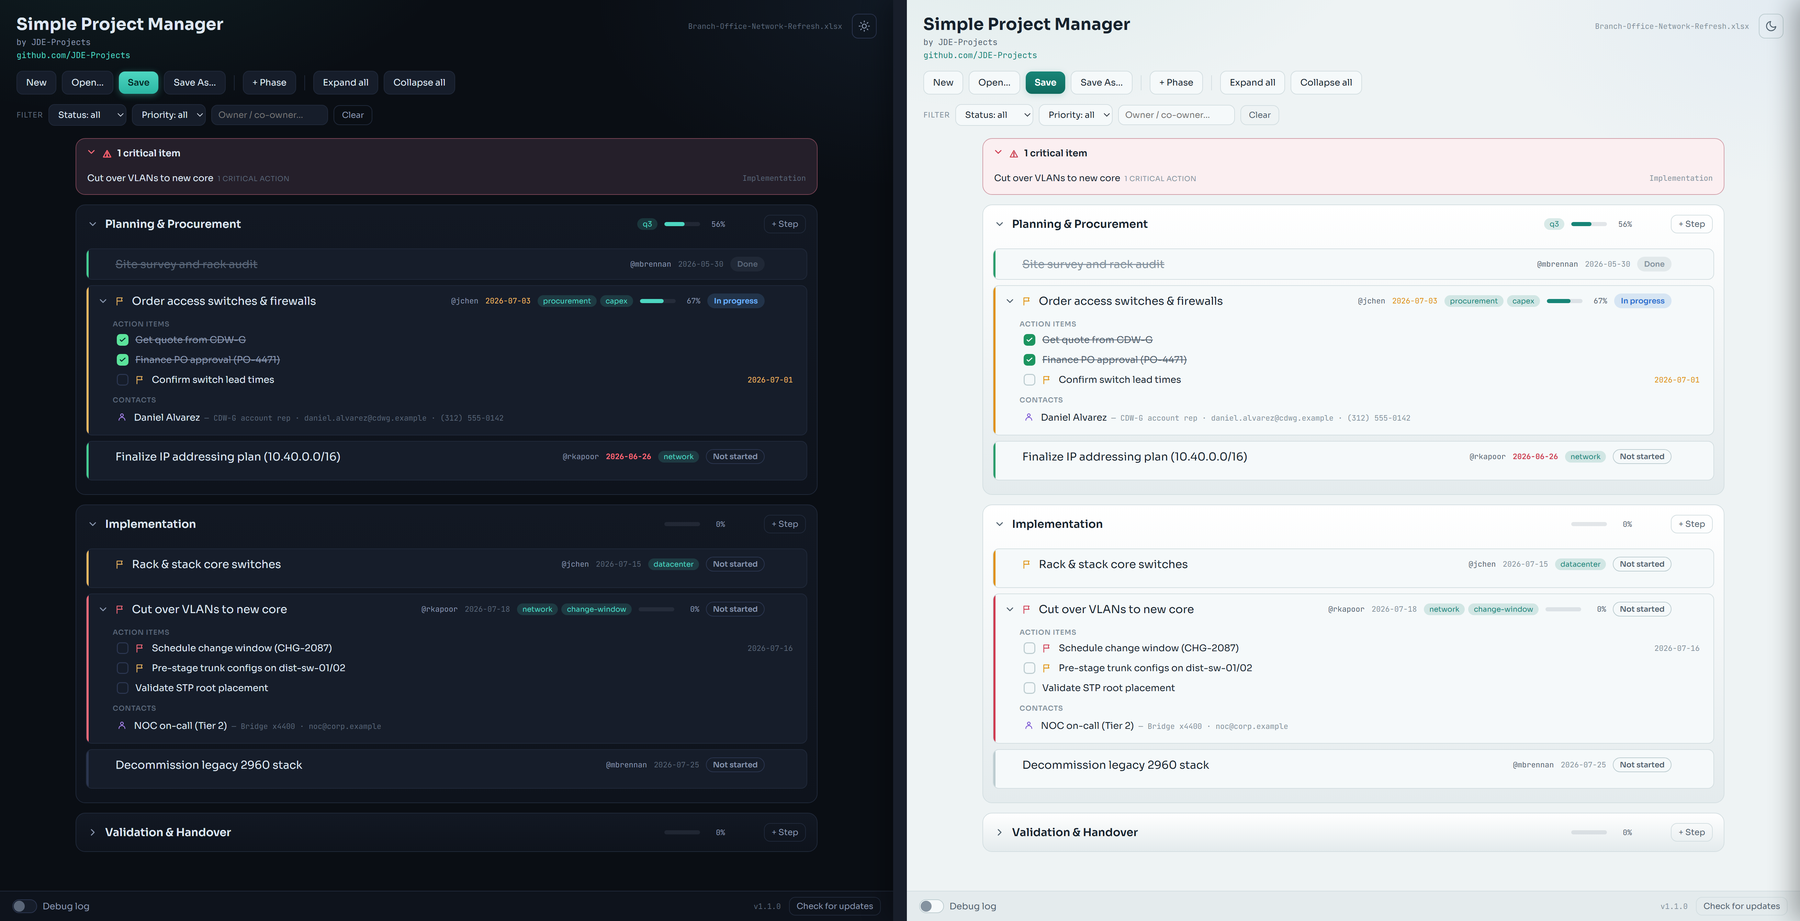
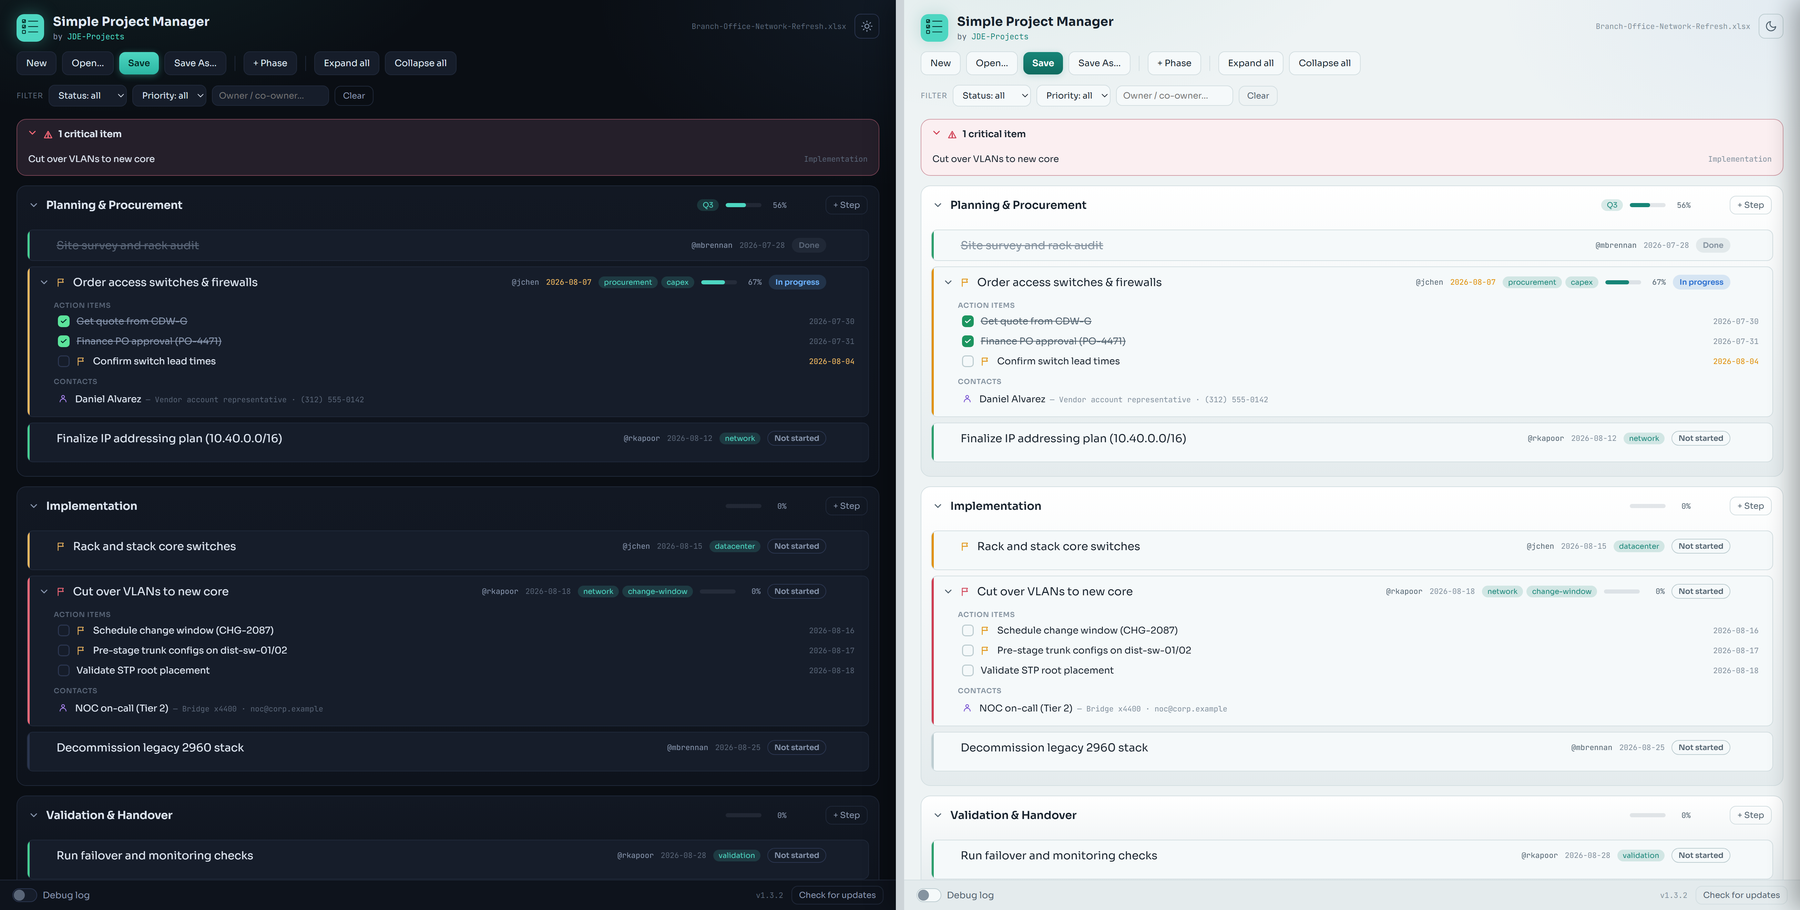
Bump version to v1.3.2

diff --git a/simple_project_manager-UI.html b/simple_project_manager-UI.html
@@ -473,7 +473,7 @@ button.btn.danger:hover { border-color:var(--red); transform:translateY(-1px); }
       <span class="update-msg" id="update-msg"></span>
     </div>
     <div class="right">
-      <span class="ver-label" id="ver-bar">v1.1.0</span>
+      <span class="ver-label" id="ver-bar">v1.3.2</span>
       <button class="btn-update" onclick="manualUpdate()">Check for updates</button>
     </div>
   </div>
@@ -512,7 +512,7 @@ button.btn.danger:hover { border-color:var(--red); transform:translateY(-1px); }
   <div class="toast" id="toast"></div>
 
 <script>
-let STATE = { items: [], statuses: [], priorities: [], theme: "dark", version: "1.1.0", filename: "", dirty: false };
+let STATE = { items: [], statuses: [], priorities: [], theme: "dark", version: "1.3.2", filename: "", dirty: false };
 const collapsed = new Set();   // ids of collapsed phases/steps
 let selectedId = null;         // id of the row whose edit panel is open
 let recoveryTimer = null;
@@ -1211,11 +1211,11 @@ async function boot(){
     STATE = await pywebview.api.get_state();
   } else {
     // browser preview fallback so layout can be eyeballed without the backend
-    STATE = { items: [], statuses:[], priorities:[], theme:"dark", version:"1.1.0", filename:"" };
+    STATE = { items: [], statuses:[], priorities:[], theme:"dark", version:"1.3.2", filename:"" };
   }
   STATE.dirty = false;
   applyTheme(STATE.theme || "dark");
-  document.getElementById("ver-bar").textContent = "v" + (STATE.version || "1.1.0");
+  document.getElementById("ver-bar").textContent = "v" + (STATE.version || "1.3.2");
   updateMeta();
   initFilterBar();
   autoCollapseDone();

diff --git a/simple_project_manager.py b/simple_project_manager.py
@@ -24,7 +24,7 @@ from openpyxl.styles import Font, PatternFill, Alignment
 from openpyxl.utils import get_column_letter
 from openpyxl.worksheet.datavalidation import DataValidation
 
-APP_VERSION = "1.3.1"
+APP_VERSION = "1.3.2"
 GITHUB_OWNER = "JDE-Projects"
 GITHUB_REPO = "Simple-Project-Manager"
 
